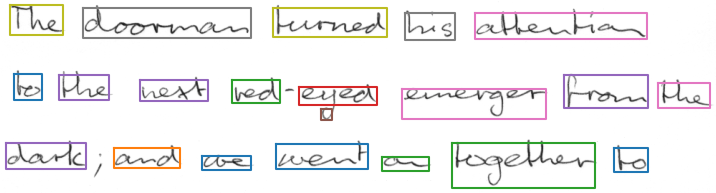
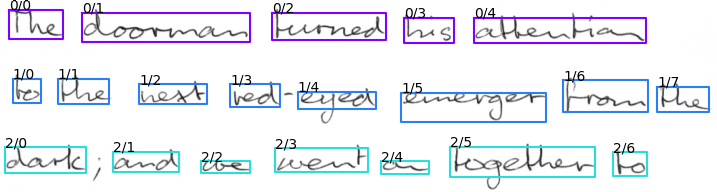
package, sorting algos for single and multi lines

diff --git a/word_detector/__init__.py b/word_detector/__init__.py
@@ -1,0 +1,170 @@
+from collections import defaultdict
+from dataclasses import dataclass
+from typing import List
+
+import cv2
+import numpy as np
+from sklearn.cluster import DBSCAN
+
+
+@dataclass
+class BBox:
+    x: int
+    y: int
+    w: int
+    h: int
+
+
+@dataclass
+class DetectorRes:
+    img: np.ndarray
+    bbox: BBox
+
+
+def detect(img: np.ndarray,
+           kernel_size: int,
+           sigma: int,
+           theta: int,
+           min_area: int) -> List[DetectorRes]:
+    """Scale space technique for word segmentation proposed by R. Manmatha.
+
+    For details see paper http://ciir.cs.umass.edu/pubfiles/mm-27.pdf.
+
+    Args:
+        img: A grayscale uint8 image.
+        kernel_size: The size of the filter kernel, must be an odd integer.
+        sigma: Standard deviation of Gaussian function used for filter kernel.
+        theta: Approximated width/height ratio of words, filter function is distorted by this factor.
+        min_area: Ignore word candidates smaller than specified area.
+
+    Returns:
+        List of DetectorRes instances, each containing the bounding box and the word image.
+    """
+    assert img.ndim == 2
+    assert img.dtype == np.uint8
+
+    # apply filter kernel
+    kernel = _get_kernel(kernel_size, sigma, theta)
+    img_filtered = cv2.filter2D(img, -1, kernel, borderType=cv2.BORDER_REPLICATE).astype(np.uint8)
+    img_thres = 255 - cv2.threshold(img_filtered, 0, 255, cv2.THRESH_BINARY + cv2.THRESH_OTSU)[1]
+
+    # append components to result
+    res = []
+    components = cv2.findContours(img_thres, cv2.RETR_LIST, cv2.CHAIN_APPROX_SIMPLE)[0]
+    for c in components:
+        # skip small word candidates
+        if cv2.contourArea(c) < min_area:
+            continue
+        # append bounding box and image of word to result list
+        x, y, w, h = cv2.boundingRect(c)  # bounding box as tuple (x, y, w, h)
+        crop = img[y:y + h, x:x + w]
+        res.append(DetectorRes(crop, BBox(x, y, w, h)))
+
+    return res
+
+
+# cache for already computed kernels
+_kernel_cache = {}
+
+
+def _get_kernel(kernel_size: int,
+                sigma: int,
+                theta: int) -> np.ndarray:
+    """Create anisotropic filter kernel."""
+    cache_key = (kernel_size, sigma, theta)
+    global _kernel_cache
+    if cache_key in _kernel_cache:
+        return _kernel_cache[cache_key]
+
+    assert kernel_size % 2  # must be odd size
+    half_size = kernel_size // 2
+
+    kernel = np.zeros([kernel_size, kernel_size])
+    sigma_x = sigma
+    sigma_y = sigma * theta
+
+    # TODO: vectorize!
+    for i in range(kernel_size):
+        for j in range(kernel_size):
+            x = i - half_size
+            y = j - half_size
+
+            exp_term = np.exp(-x ** 2 / (2 * sigma_x) - y ** 2 / (2 * sigma_y))
+            x_term = (x ** 2 - sigma_x ** 2) / (2 * np.math.pi * sigma_x ** 5 * sigma_y)
+            y_term = (y ** 2 - sigma_y ** 2) / (2 * np.math.pi * sigma_y ** 5 * sigma_x)
+
+            kernel[i, j] = (x_term + y_term) * exp_term
+
+    kernel = kernel / np.sum(kernel)
+
+    # cache kernel and return it
+    _kernel_cache[cache_key] = kernel
+    return kernel
+
+
+def prepare_img(img: np.ndarray,
+                height: int) -> np.ndarray:
+    """Convert given image to grayscale image (if needed) and resize to given height."""
+    assert img.ndim in (2, 3)
+    assert height > 0
+    assert img.dtype == np.uint8
+    if img.ndim == 3:
+        img = cv2.cvtColor(img, cv2.COLOR_BGR2GRAY)
+    h = img.shape[0]
+    factor = height / h
+    return cv2.resize(img, dsize=None, fx=factor, fy=factor)
+
+
+def _cluster_lines(detections: List[DetectorRes],
+                   max_dist: float = 0.7,
+                   min_words_per_line: int = 2
+                   ) -> List[List[DetectorRes]]:
+    # compute matrix containing Jaccard distances (which is a proper metric)
+    num_bboxes = len(detections)
+    dist_mat = np.ones((num_bboxes, num_bboxes))
+    for i in range(num_bboxes):
+        for j in range(num_bboxes):
+            a = detections[i].bbox
+            b = detections[j].bbox
+            if a.y > b.y + b.h or b.y > a.y + a.h:
+                continue
+            intersection = min(a.y + a.h, b.y + b.h) - max(a.y, b.y)
+            union = a.h + b.h - intersection
+            iou = np.clip(intersection / union if union > 0 else 0, 0, 1)
+            dist_mat[i, j] = 1 - iou  # Jaccard distance is defined as 1-iou
+
+    dbscan = DBSCAN(eps=max_dist, min_samples=min_words_per_line, metric='precomputed').fit(dist_mat)
+
+    clustered = defaultdict(list)
+    for i, cluster_id in enumerate(dbscan.labels_):
+        if cluster_id == -1:
+            continue
+        clustered[cluster_id].append(detections[i])
+
+    res = sorted(clustered.values(), key=lambda line: [det.bbox.y + det.bbox.h / 2 for det in line])
+    return res
+
+
+def sort_multiline(detections: List[DetectorRes],
+                   max_dist: float = 0.7,
+                   min_words_per_line: int = 2) -> List[List[DetectorRes]]:
+    """Cluster detections into lines, then sort the lines according to x-coordinates of word centers.
+
+    Args:
+        detections: List of detections.
+        max_dist: Maximum Jaccard distance (0..1) between two y-projected words to be considered as neighbors.
+        min_words_per_line: If a line contains less words than specified, it is ignored.
+
+    Returns:
+        List of lines, each line itself a list of detections.
+    """
+    lines = _cluster_lines(detections, max_dist, min_words_per_line)
+    res = []
+    for line in lines:
+        res += sort_line(line)
+    return res
+
+
+def sort_line(detections: List[DetectorRes]) -> List[List[DetectorRes]]:
+    """Sort the list of detections according to x-coordinates of word centers."""
+    return [sorted(detections, key=lambda det: det.bbox.x + det.bbox.w / 2)]

diff --git a/examples/main.py b/examples/main.py
@@ -5,11 +5,11 @@ import cv2
 import matplotlib.pyplot as plt
 from path import Path
 
-from word_detector import detect_words, prepare_img
+from word_detector import detect, prepare_img, sort_multiline
 
 
 def get_img_files(data_dir: Path) -> List[Path]:
-    """return all image files contained in a folder"""
+    """Return all image files contained in a folder."""
     res = []
     for ext in ['*.png', '*.jpg', '*.bmp']:
         res += Path(data_dir).files(ext)
@@ -31,18 +31,26 @@ def main():
 
         # load image and process it
         img = prepare_img(cv2.imread(fn_img), parsed.img_height)
-        res = detect_words(img,
-                           kernel_size=parsed.kernel_size,
-                           sigma=parsed.sigma,
-                           theta=parsed.theta,
-                           min_area=parsed.min_area)
+        detections = detect(img,
+                            kernel_size=parsed.kernel_size,
+                            sigma=parsed.sigma,
+                            theta=parsed.theta,
+                            min_area=parsed.min_area)
+
+        # sort detections: cluster into lines, then sort each line
+        lines = sort_multiline(detections)
 
         # plot results
         plt.imshow(img, cmap='gray')
-        for det in res:
-            xs = [det.bbox.x, det.bbox.x, det.bbox.x + det.bbox.w, det.bbox.x + det.bbox.w, det.bbox.x]
-            ys = [det.bbox.y, det.bbox.y + det.bbox.h, det.bbox.y + det.bbox.h, det.bbox.y, det.bbox.y]
-            plt.plot(xs, ys)
+        num_colors = 7
+        colors = plt.cm.get_cmap('rainbow', num_colors)
+        for line_idx, line in enumerate(lines):
+            for word_idx, det in enumerate(line):
+                xs = [det.bbox.x, det.bbox.x, det.bbox.x + det.bbox.w, det.bbox.x + det.bbox.w, det.bbox.x]
+                ys = [det.bbox.y, det.bbox.y + det.bbox.h, det.bbox.y + det.bbox.h, det.bbox.y, det.bbox.y]
+                plt.plot(xs, ys, c=colors(line_idx % num_colors))
+                plt.text(det.bbox.x, det.bbox.y, f'{line_idx}/{word_idx}')
+
         plt.show()
 
 

diff --git a/setup.py b/setup.py
@@ -1,0 +1,12 @@
+from setuptools import setup
+
+setup(
+    name='word-detector',
+    version='1.0.0',
+    description='Word Detector',
+    author='Harald Scheidl',
+    packages=['word_detector'],
+    url="https://github.com/githubharald/WordDetector",
+    install_requires=['numpy', 'sklearn', 'opencv-python'],
+    python_requires='>=3.7'
+)

diff --git a/README.md b/README.md
@@ -2,23 +2,63 @@
 
 Implementation of the scale space technique for word segmentation proposed by 
 [R. Manmatha and N. Srimal](http://ciir.cs.umass.edu/pubfiles/mm-27.pdf). 
-Even though the paper is from 1999, the method still achieves good results, is fast, and is easy to implement. 
+Even though the paper is from 1999, the method still achieves good results, is fast, and has a simple implementation. 
 The algorithm takes an **image containing words as input** and **outputs the segmented words**.
+Optionally, the detected words can be sorted according to reading order (top to bottom, left to right).
 
 ![example](./doc/example.png)
 
-## Run demo
+## Installation
 
-* Install required packages by running `pip install -r requirements.txt`
-* Go to the `src/` directory
-* Run the script `python main.py` to detect words in line images (IAM dataset)
-* Or, run `python main.py --data ../data/page --img_height 1000 --theta 5` to run the detector on an image of a page
-* A window opens and shows the detections for the images contained in the  directory
-* The script can be configured via command line, see available options by running `python main.py -h`
+* Go to the root level of the repository
+* Execute `pip install .`
+* Go to `examples/` and run the detector on some sample images to see if installation worked:
+  * Run `python main.py` to detect words in line images (IAM dataset)
+  * Or, run `python main.py --data ../data/page --img_height 1000 --theta 5` to run the detector on an image of a page (also from IAM dataset)
 
-## Documentation
+## Usage
 
-### Algorithm
+This example loads an image of a text line, prepares it for the detector (1), detects words (2), 
+sorts them (3), and finally shows the cropped words (4).
+
+````python
+from word_detector import prepare_img, detect, sort_line
+import matplotlib.pyplot as plt
+import cv2
+
+# (1) prepare image:
+# (1a) convert to grayscale
+# (1b) scale to specified height because algorithm is not scale-invariant
+img = prepare_img(cv2.imread('data/line/0.png'), 50)
+
+# (2) detect words in image
+detections = detect(img,
+                    kernel_size=25,
+                    sigma=11,
+                    theta=7,
+                    min_area=100)
+
+# (3) sort words in line
+line = sort_line(detections)[0]
+
+# (4) show word images
+for i, word in enumerate(line):
+  print(word.bbox)
+  plt.subplot(len(line), 1, i + 1)
+  plt.imshow(word.img, cmap='gray')
+plt.show()
+````
+
+The package contains the following functions:
+* prepare_img: prepares input image for detector
+* detect: detect words in image
+* sort_line: sort words in a (single) line
+* sort_multiline: cluster words into lines, then sort each line separately
+
+For more details on the functions and their parameters use `help(function_name)`, e.g. `help(detect)`.
+
+
+## Algorithm
 
 The illustration below shows how the algorithm works:
 
@@ -35,22 +75,8 @@ On the right the frequency response is shown (DFT of size 100x100).
 The filter is in fact a low-pass, with different cut-off frequencies in x and y direction.
 ![kernel](./doc/kernel.png)
 
-### Parameters
 
-Most of the parameters of the function `detect_words` deal with the shape of the filter kernel:
-
-* img: grayscale uint8 image containing the words to be segmented
-* kernel_size: size of filter kernel, must be an odd integer
-* sigma: standard deviation of Gaussian function used for filter kernel
-* theta: approximated width/height ratio of words, filter function is distorted by this factor
-* min_area: ignore word candidates smaller than specified area
-
-The function `prepare_img` is used to convert the input image to grayscale and to resize it to a fixed height:
-
-* img: input image
-* height: image will be resized to fit specified height
-
-### How to select parameters
+## How to select parameters
 
 * The algorithm is **not scale-invariant**
     * The default parameters give good results for a text height of 25-50 pixels
@@ -61,7 +87,7 @@ The function `prepare_img` is used to convert the input image to grayscale and t
   containing multiple words (under-segmentation)
 * The kernel size depends on the sigma parameter and should be chosen large enough to contain as much of the non-zero
   kernel values as possible
-* The average aspect ratio (width/height) of the words to be detected defines the theta parameter
+* The average aspect ratio (width/height) of the words to be detected is a good initial guess for the theta parameter
 
 The best way to find the optimal parameters is to use a dataset (e.g. IAM) and optimize the parameters w.r.t. some
 evaluation metric (e.g. intersection over union).
@@ -71,4 +97,4 @@ evaluation metric (e.g. intersection over union).
 This algorithm gives good results on datasets with large inter-word-distances and small intra-word-distances like IAM.
 However, for historical datasets like Bentham or Ratsprotokolle results are not very good and more complex approaches
 should be preferred (e.g., a neural network based approach as implemented in
-the [WordDetectorNN repository](https://github.com/githubharald/WordDetectorNN)).
+the [WordDetectorNN](https://github.com/githubharald/WordDetectorNN) repository).
